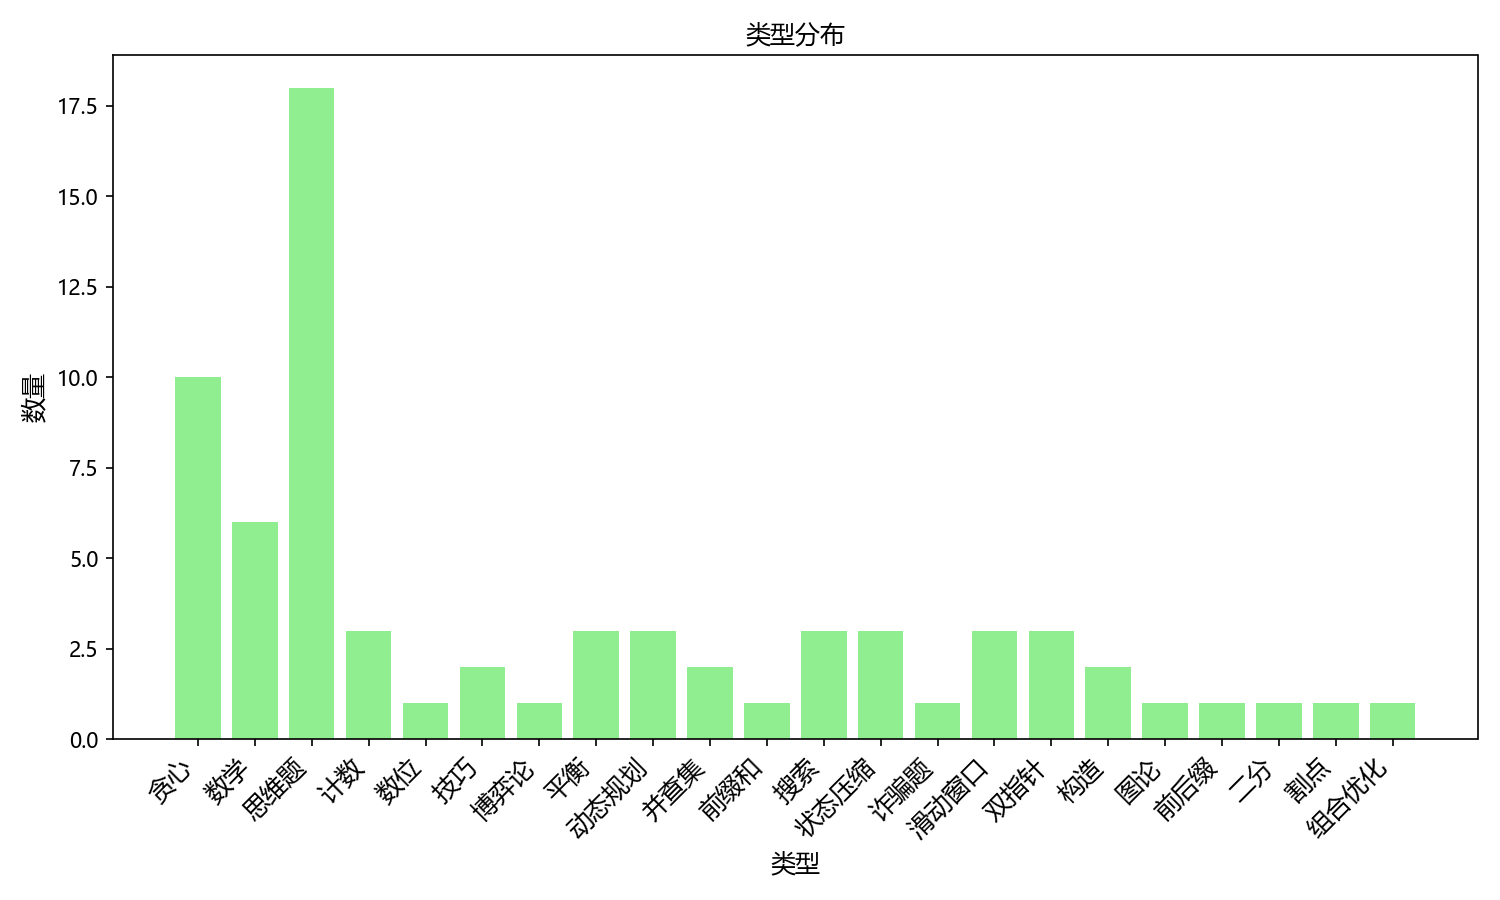
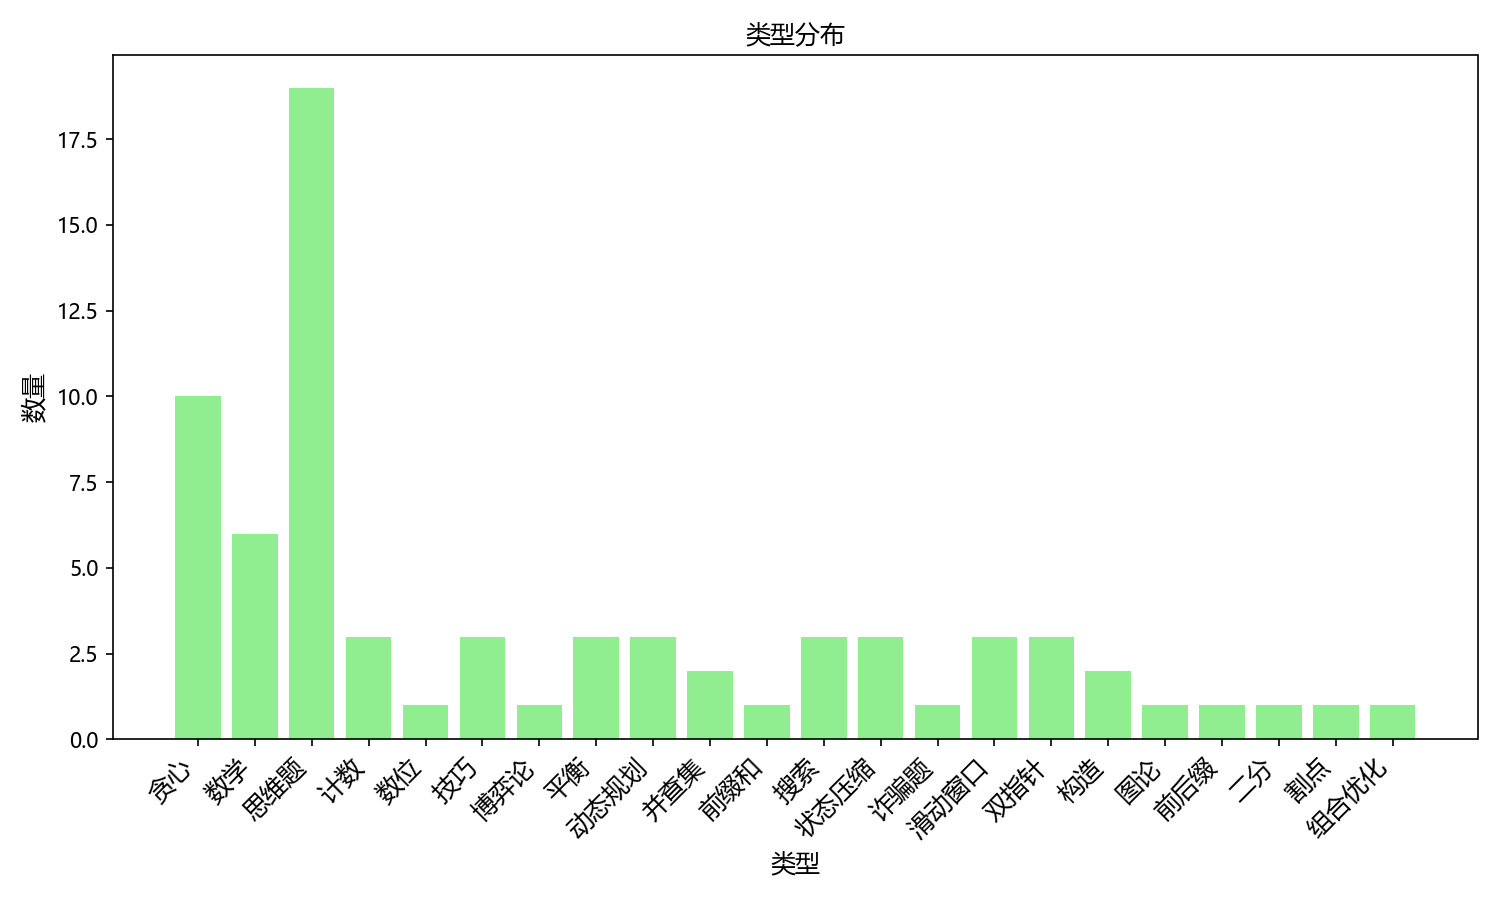
d

diff --git a/刷题模块/OJ/index.html b/刷题模块/OJ/index.html
@@ -1,6 +1,7 @@
 <!DOCTYPE html>
 <html lang="zh">
 <head>
+    <link rel="icon" href="/assets/images/logo.png" type="image/png">
     <meta charset="UTF-8">
     <meta name="viewport" content="width=device-width, initial-scale=1.0">
     <title>题目目录</title>
@@ -138,6 +139,10 @@
 <div class="problem-item">
   <a href="https://aliceauto.github.io/刷题模块/OJ/牛客/小白月赛106/div4_{贪心;思维题}_牛客_二维上的贪心.md">二维上的贪心</a>
   <div class="problem-meta">难度: div4 | 类型: 贪心, 思维题 | OJ: 牛客</div>
+</div>
+<div class="problem-item">
+  <a href="https://aliceauto.github.io/刷题模块/OJ/牛客/小白月赛109/div4_{思维题;技巧}_牛客_猪猪的养成计划.md">猪猪的养成计划</a>
+  <div class="problem-meta">难度: div4 | 类型: 思维题, 技巧 | OJ: 牛客</div>
 </div>
 <div class="problem-item">
   <a href="https://aliceauto.github.io/刷题模块/OJ/牛客/杂/div4_{数学;组合优化}_牛客_数学家的胃.md">数学家的胃</a>

diff --git a/刷题模块/OJ/README.md b/刷题模块/OJ/README.md
@@ -33,6 +33,7 @@
 | [**联通块问题**](https://aliceauto.github.io/刷题模块/OJ/牛客/小白月赛105/div3_{思维题;割点}_牛客_联通块问题.md) | div3 | 思维题, 割点 | 牛客 |
 | [**染色方案**](https://aliceauto.github.io/刷题模块/OJ/牛客/小白月赛105/div3_{计数;并查集}_牛客_染色方案.md) | div3 | 计数, 并查集 | 牛客 |
 | [**二维上的贪心**](https://aliceauto.github.io/刷题模块/OJ/牛客/小白月赛106/div4_{贪心;思维题}_牛客_二维上的贪心.md) | div4 | 贪心, 思维题 | 牛客 |
+| [**猪猪的养成计划**](https://aliceauto.github.io/刷题模块/OJ/牛客/小白月赛109/div4_{思维题;技巧}_牛客_猪猪的养成计划.md) | div4 | 思维题, 技巧 | 牛客 |
 | [**数学家的胃**](https://aliceauto.github.io/刷题模块/OJ/牛客/杂/div4_{数学;组合优化}_牛客_数学家的胃.md) | div4 | 数学, 组合优化 | 牛客 |
 | [**纸牌之王**](https://aliceauto.github.io/刷题模块/OJ/牛客/杂/div5_{思维题}_牛客_纸牌之王.md) | div5 | 思维题 | 牛客 |
 | [**生物繁育问题**](https://aliceauto.github.io/刷题模块/OJ/牛客/杂/div5_{数学;思维题}_牛客_生物繁育问题.md) | div5 | 数学, 思维题 | 牛客 |
